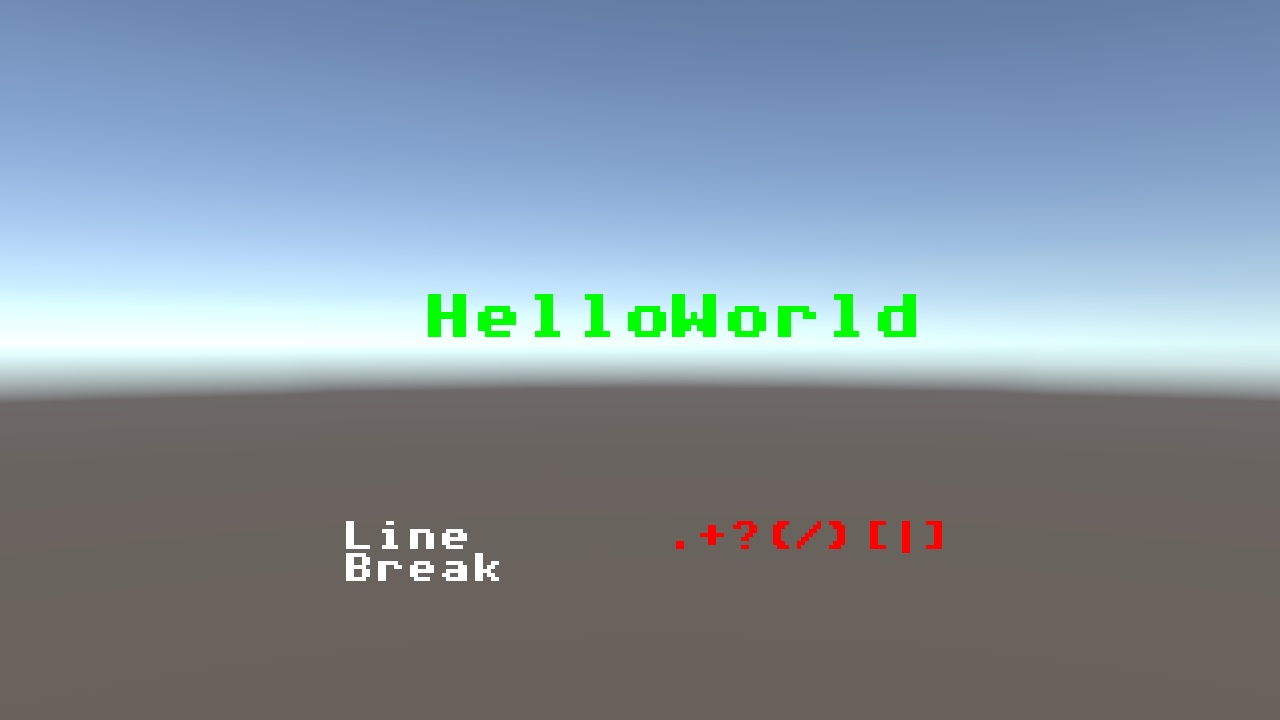
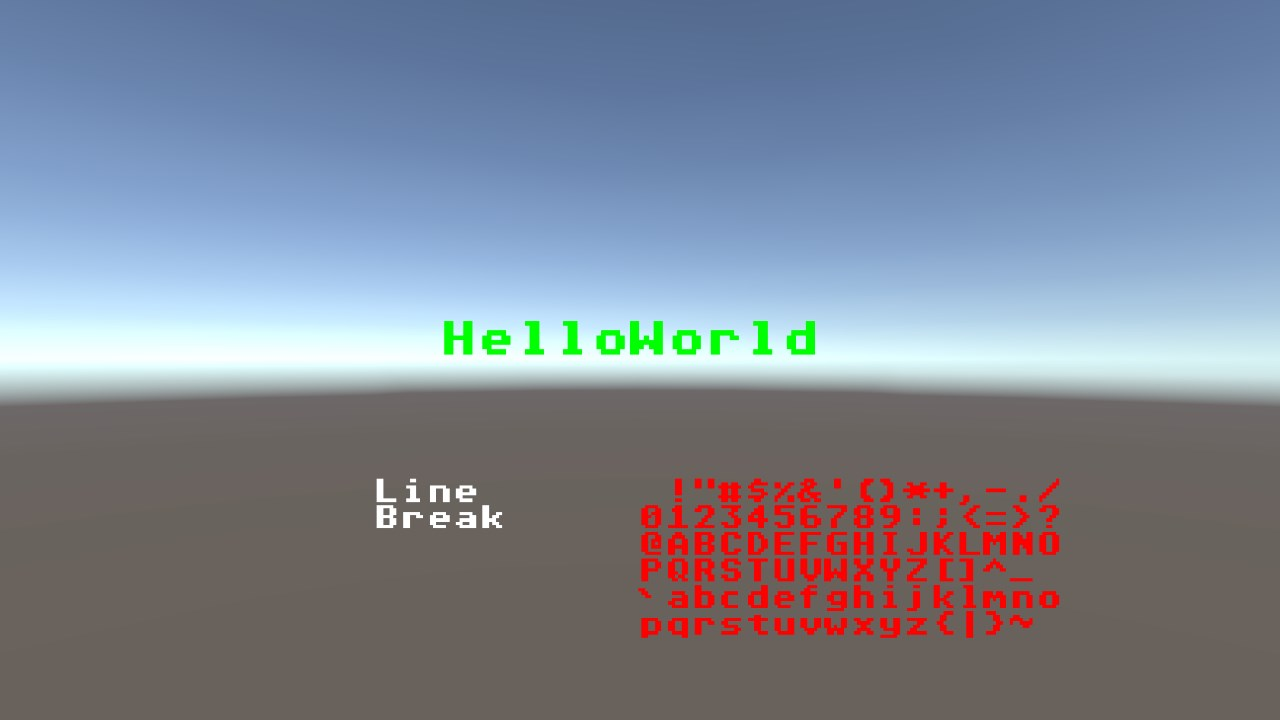
Update to remove limitation of character length.

diff --git a/Assets/Packages/ImageEffect/TextShader/TextShader.cs b/Assets/Packages/ImageEffect/TextShader/TextShader.cs
@@ -74,31 +74,28 @@ public class TextShader : ImageEffectBase
         'p','q','r','s','t','u','v','w','x','y','z','{','|','}','~',
     };
 
-    protected static          int TextDataBufferID  = -1;
-    protected static readonly int MaxTextDataLength = 10;
+    protected static int TextBufferID     = -1;
+    protected static int TextDataBufferID = -1;
 
     [System.Serializable]
     public struct TextData
     {
-        public int char0;
-        public int char1;
-        public int char2;
-        public int char3;
-        public int char4;
-        public int char5;
-        public int char6;
-        public int char7;
-        public int char8;
-        public int char9;
-        public Vector4 parameter;
-        public Color color;
+        // NOTE:
+        // index.x      = offset.
+        // index.y      = length.
+        // parameter.xy = position.
+        // parameter.z  = charSize.
+
+        public Vector2 index;
+        public Vector3 parameter;
+        public Color   color;
     }
 
+    private ComputeBuffer textBuffer;
     private ComputeBuffer textDataBuffer;
 
+    private readonly List<int>      textList     = new List<int>();
     private readonly List<TextData> textDataList = new List<TextData>();
-
-    public bool autoClear = true;
 
     #endregion Field
 
@@ -123,37 +120,47 @@ public class TextShader : ImageEffectBase
             base.material.SetTexture("_FontTex", TextShader.SpriteFontTexture);
         }
 
-        if (TextShader.TextDataBufferID < 0)
+        if (TextShader.TextBufferID < 0)
         {
-            TextDataBufferID = Shader.PropertyToID("_TextDataBuffer");
+            TextShader.TextBufferID     = Shader.PropertyToID("_TextBuffer");
+            TextShader.TextDataBufferID = Shader.PropertyToID("_TextDataBuffer");
         }
     }
 
     protected override void OnRenderImage(RenderTexture src, RenderTexture dest)
     {
-        if (this.textDataList.Count != 0)
+        if (this.textList.Count != 0)
         {
-            this.textDataBuffer = new ComputeBuffer(textDataList.Count, Marshal.SizeOf(typeof(TextData)));
-            this.textDataBuffer.SetData(textDataList);
+            this.textBuffer = new ComputeBuffer(this.textList.Count, Marshal.SizeOf(typeof(int)));
+            this.textBuffer.SetData(this.textList);
 
+            this.textDataBuffer = new ComputeBuffer(this.textDataList.Count, Marshal.SizeOf(typeof(TextData)));
+            this.textDataBuffer.SetData(this.textDataList);
+
+            base.material.SetBuffer(TextShader.TextBufferID,     this.textBuffer);
             base.material.SetBuffer(TextShader.TextDataBufferID, this.textDataBuffer);
         }
 
         base.OnRenderImage(src, dest);
 
-        if (this.textDataBuffer != null)
+        if (this.textBuffer != null)
         {
+            this.textBuffer.Release();
             this.textDataBuffer.Release();
         }
 
-        if (this.autoClear)
-        {
-            this.textDataList.Clear();
-        }
+        this.textList.Clear();
+        this.textDataList.Clear();
     }
 
     protected void OnDestroy()
     {
+        if (this.textBuffer != null)
+        {
+            this.textBuffer.Release();
+            this.textBuffer = null;
+        }
+
         if (this.textDataBuffer != null)
         {
             this.textDataBuffer.Release();
@@ -161,19 +168,21 @@ public class TextShader : ImageEffectBase
         }
     }
 
-    public void Clear()
+    public void DrawText(string text, float posX, float posY, float size)
     {
-        if (this.textDataList != null)
-        {
-            this.textDataList.Clear();
-        }
+        DrawText(text, posX, posY, size, Color.white);
     }
 
-    public void SetTextToTextData(string text, ref TextData textData)
+    public void DrawText(string text, float posX, float posY, float size, Color color)
     {
-        int textLength = Mathf.Min(text.Length, TextShader.MaxTextDataLength);
+        int textLength = text.Length;
 
-        textData.parameter.w = textLength;
+        this.textDataList.Add(new TextData()
+        {
+            index     = new Vector2(this.textList.Count, textLength),
+            parameter = new Vector3(posX, posY, size),
+            color     = color
+        });
 
         for (int i = 0; i < textLength; i++)
         {
@@ -188,39 +197,8 @@ public class TextShader : ImageEffectBase
             charCode = validCode ? charCode - TextShader.AsciiCodeStart
                                  : TextShader.AsciiCodeDelete;
 
-            switch (i)
-            {
-                case 0: textData.char0 = charCode; continue;
-                case 1: textData.char1 = charCode; continue;
-                case 2: textData.char2 = charCode; continue;
-                case 3: textData.char3 = charCode; continue;
-                case 4: textData.char4 = charCode; continue;
-                case 5: textData.char5 = charCode; continue;
-                case 6: textData.char6 = charCode; continue;
-                case 7: textData.char7 = charCode; continue;
-                case 8: textData.char8 = charCode; continue;
-                case 9: textData.char9 = charCode; continue;
-                default: break;
-            }
+            this.textList.Add(charCode);
         }
-    }
-
-    public void DrawText(string text, float posX, float posY, float size)
-    {
-        DrawText(text, posX, posY, size, Color.white);
-    }
-
-    public void DrawText(string text, float posX, float posY, float size, Color color)
-    {
-        TextData textData = new TextData()
-        {
-            parameter = new Vector4(posX, posY, size, 0),
-            color = color
-        };
-
-        SetTextToTextData(text, ref textData);
-
-        this.textDataList.Add(textData);
     }
 
     #endregion Method

diff --git a/Assets/Sample.cs b/Assets/Sample.cs
@@ -6,13 +6,18 @@ public class Sample : MonoBehaviour
 
     void Update()
     {
-        this.textShader.DrawText("!", Random.value, Random.value, Random.value);
-
         this.textShader.DrawText("HelloWorld", 0.35f, 0.5f,
             ScreenUtil.ScreenToViewport(50, 50).x, Color.green);
 
         this.textShader.DrawText("Line\\Break", 0.3f, 0.3f, 0.02f);
 
-        this.textShader.DrawText(".+?(/)[|]", 0.5f, 0.3f, 0.02f, Color.red);
+        string asciicode = " !\"#$%&'()*+,-./\\"
+                         + "0123456789:;<=>?\\"
+                         + "@ABCDEFGHIJKLMNO\\"
+                         + "PQRSTUVWXYZ[]^_\\"
+                         + "`abcdefghijklmno\\"
+                         + "pqrstuvwxyz{|}~";
+
+        this.textShader.DrawText(asciicode, 0.5f, 0.3f, 0.02f, Color.red);
     }
 }

diff --git a/README.md b/README.md
@@ -14,7 +14,6 @@ Set your text and the parameters in viewport(uv) space.
 
 ### Limitation
 
- - Max text length is 10 (characters).
  - Valid characters are AsciiCode number 32 ~ 126.
  - `\`(back slash) becomes line-break.
 
